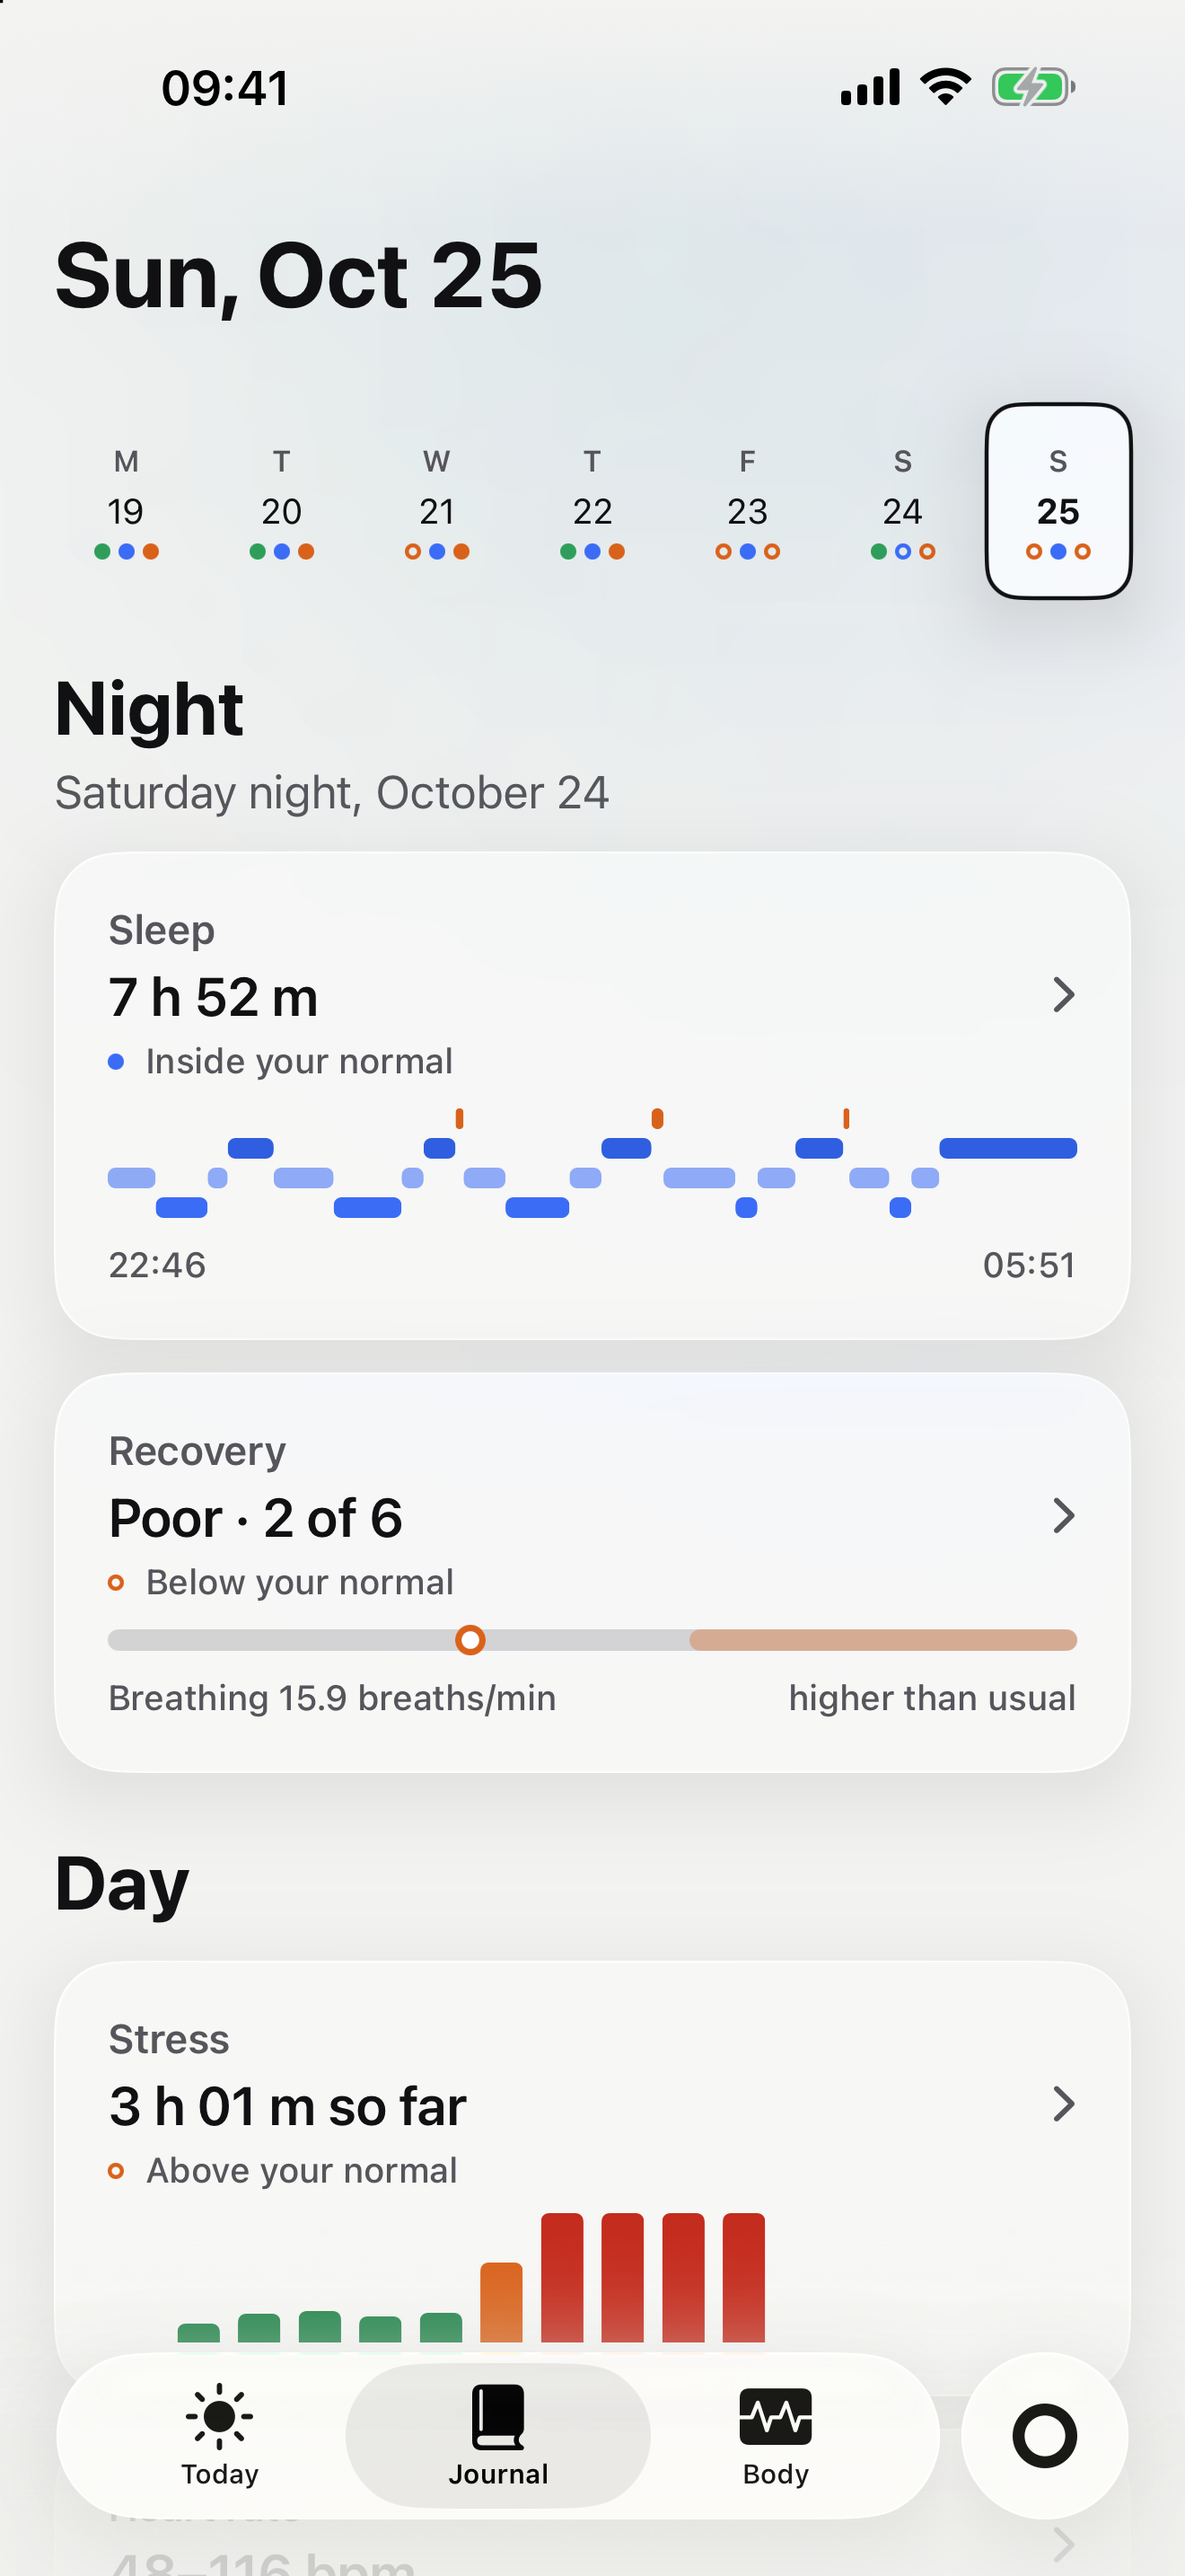
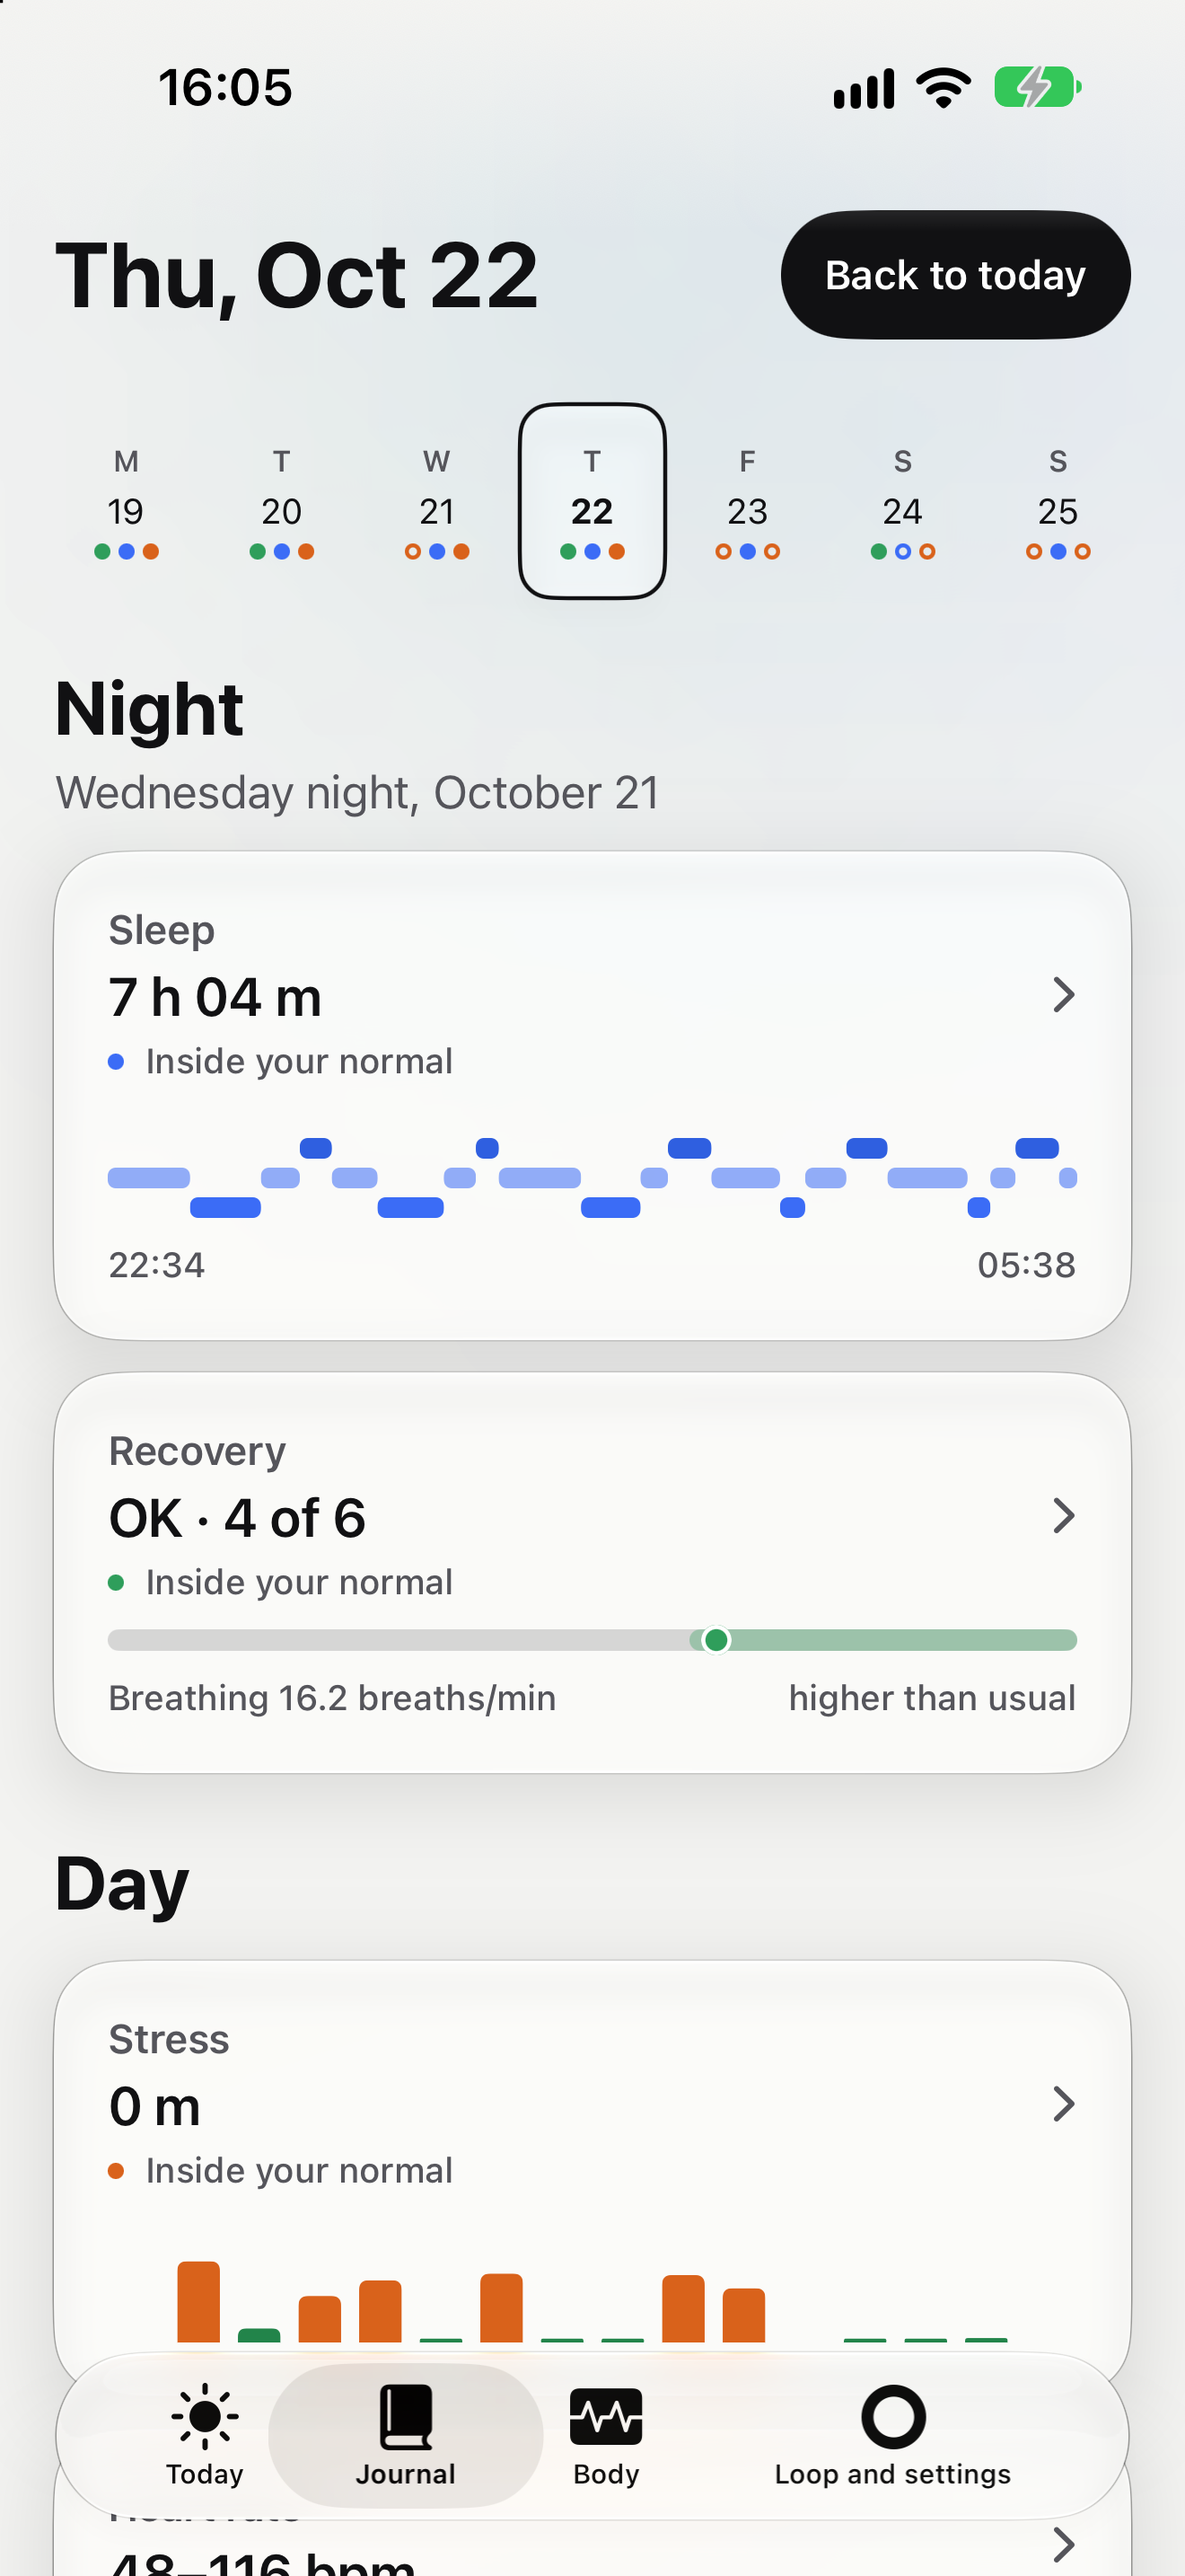
Show more of the app in the README: seven fresh screenshots
People seeing the project can't easily install it, so the README now shows Today, Sleep, Journal, Body, Recovery, Stress and Heart rate, all from the Simulator's fake band.

diff --git a/README.md b/README.md
@@ -9,9 +9,15 @@ Built for one person running their own copy. Not a product: no App Store, no acc
 Used daily by its author on one iPhone and one Polar Loop since October 2026. Any feature not yet checked on real hardware is marked in its page in [docs/how-it-works/](docs/how-it-works/).
 
 <p>
-  <img src="docs/screenshots/today.png" width="240" alt="Today">
-  <img src="docs/screenshots/sleep.png" width="240" alt="The Sleep page">
-  <img src="docs/screenshots/journal.png" width="240" alt="Journal">
+  <img src="docs/screenshots/today.png" width="200" alt="Today">
+  <img src="docs/screenshots/sleep.png" width="200" alt="The Sleep page, a finger reading the chart">
+  <img src="docs/screenshots/journal.png" width="200" alt="Journal on a past day">
+  <img src="docs/screenshots/body.png" width="200" alt="Body">
+</p>
+<p>
+  <img src="docs/screenshots/recovery.png" width="200" alt="The Recovery page: what went into it">
+  <img src="docs/screenshots/stress.png" width="200" alt="The Stress page">
+  <img src="docs/screenshots/heart-rate.png" width="200" alt="The Heart rate page">
 </p>
 
 ## What you need
